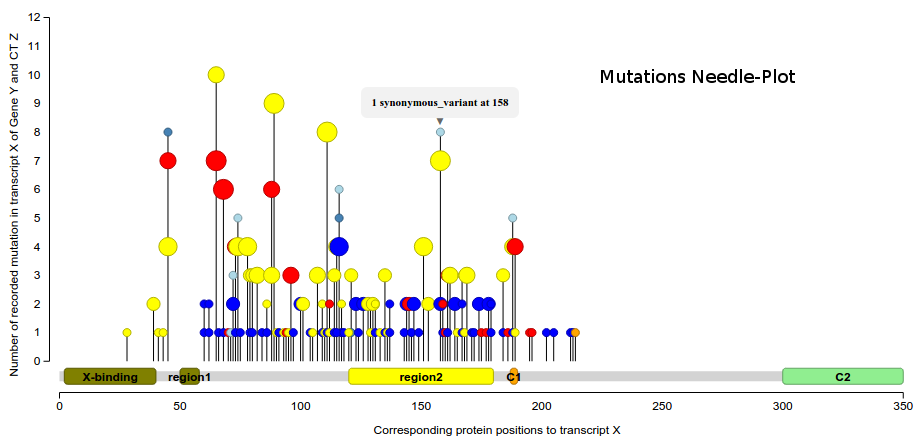
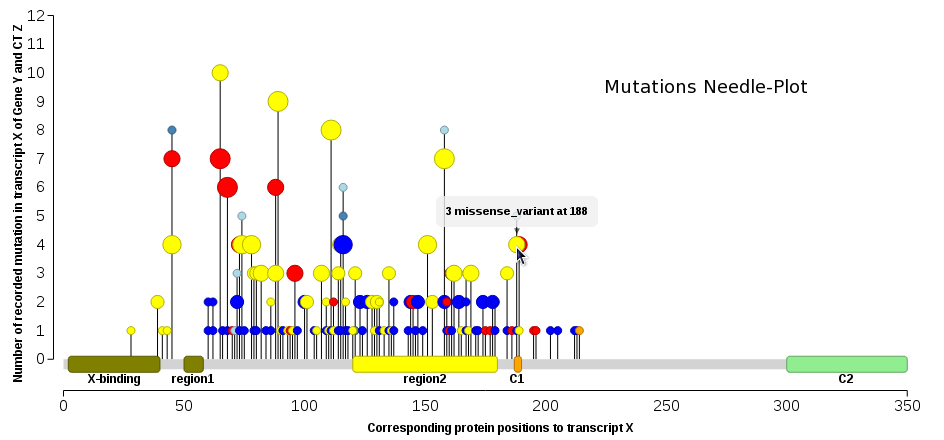
css-improvements

diff --git a/src/css/muts-needle-plot.css b/src/css/muts-needle-plot.css
@@ -1,4 +1,6 @@
-
+body {
+    font-family: Verdana,Geneva,sans-serif;
+}
 
 .needle-line {
     stroke: black;
@@ -16,6 +18,11 @@
 
 .x-axis path, .x-axis line, .y-axis path, .y-axis line {
     fill: none;
+}
+
+.x-label, .y-label {
+    font-weight: bold;
+    font-size: 12px;
 }
 
 .domain {
